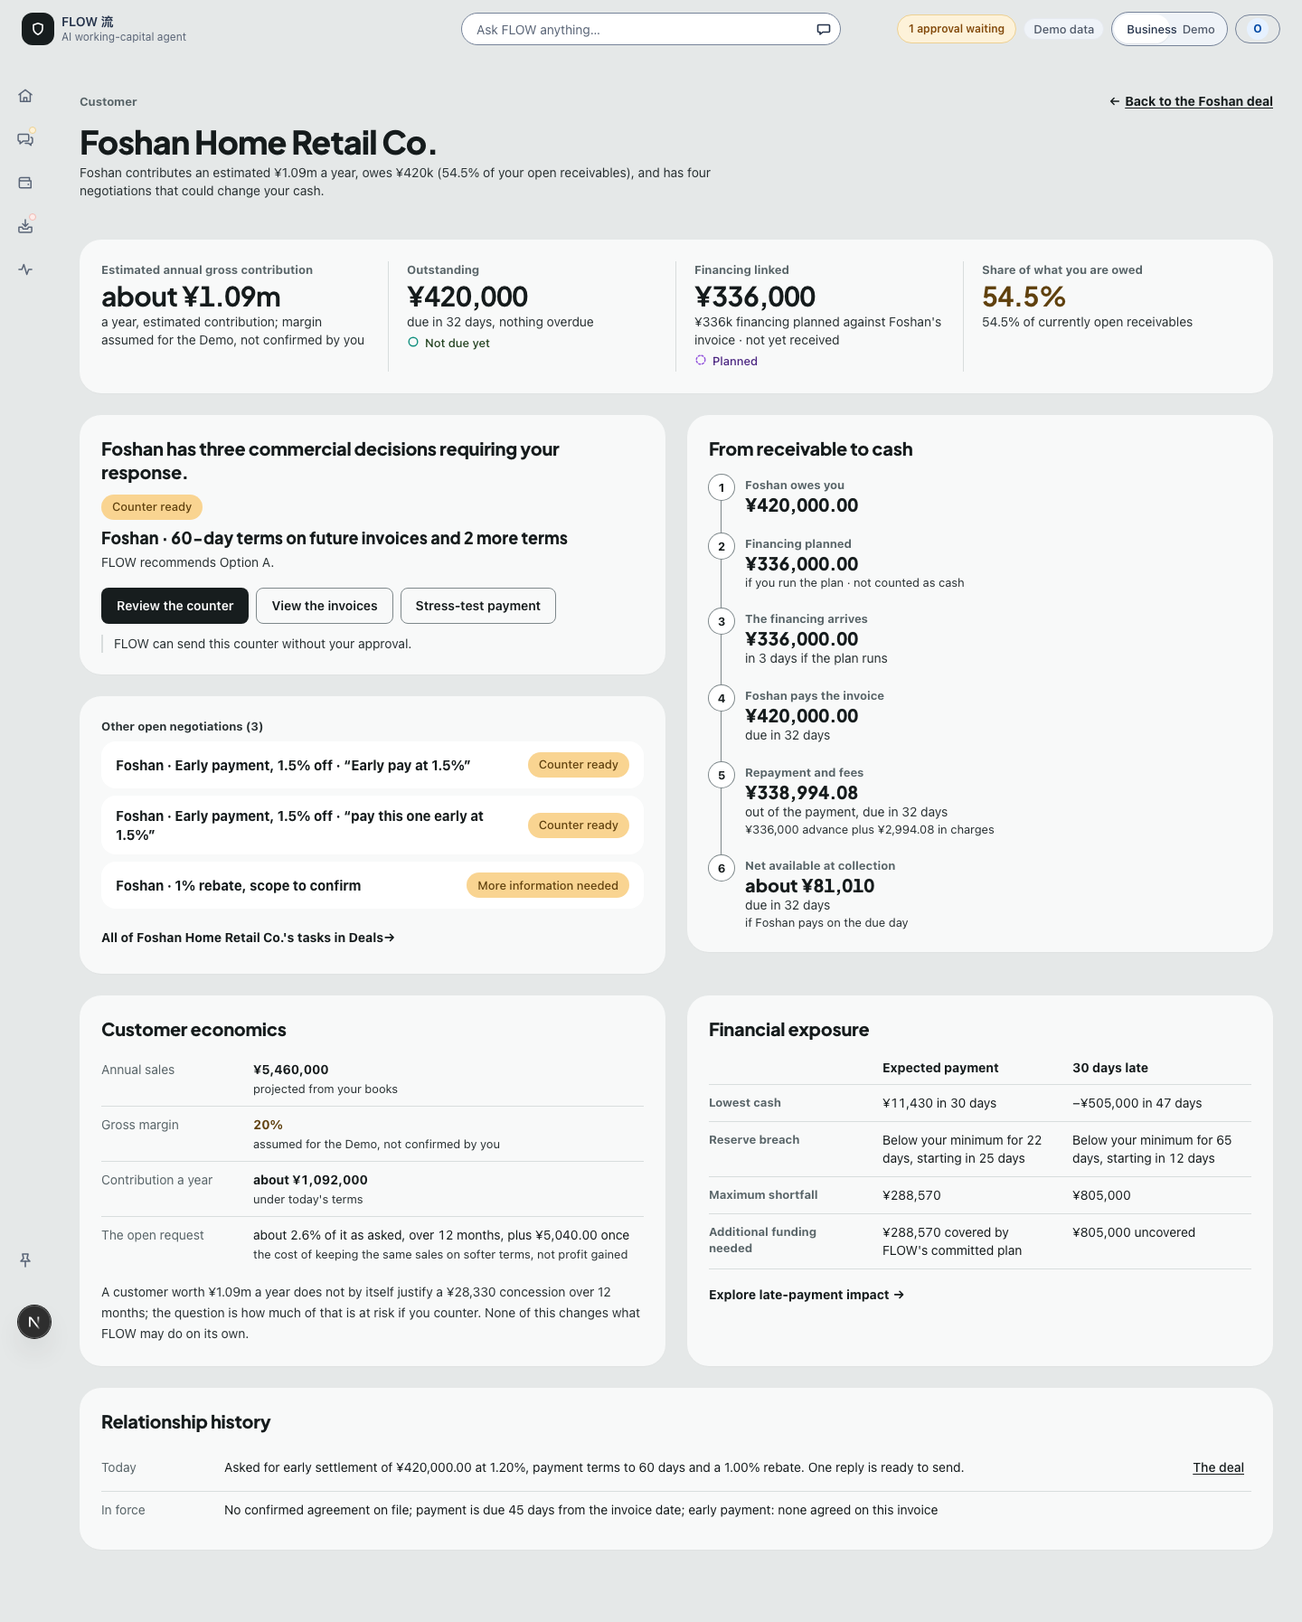
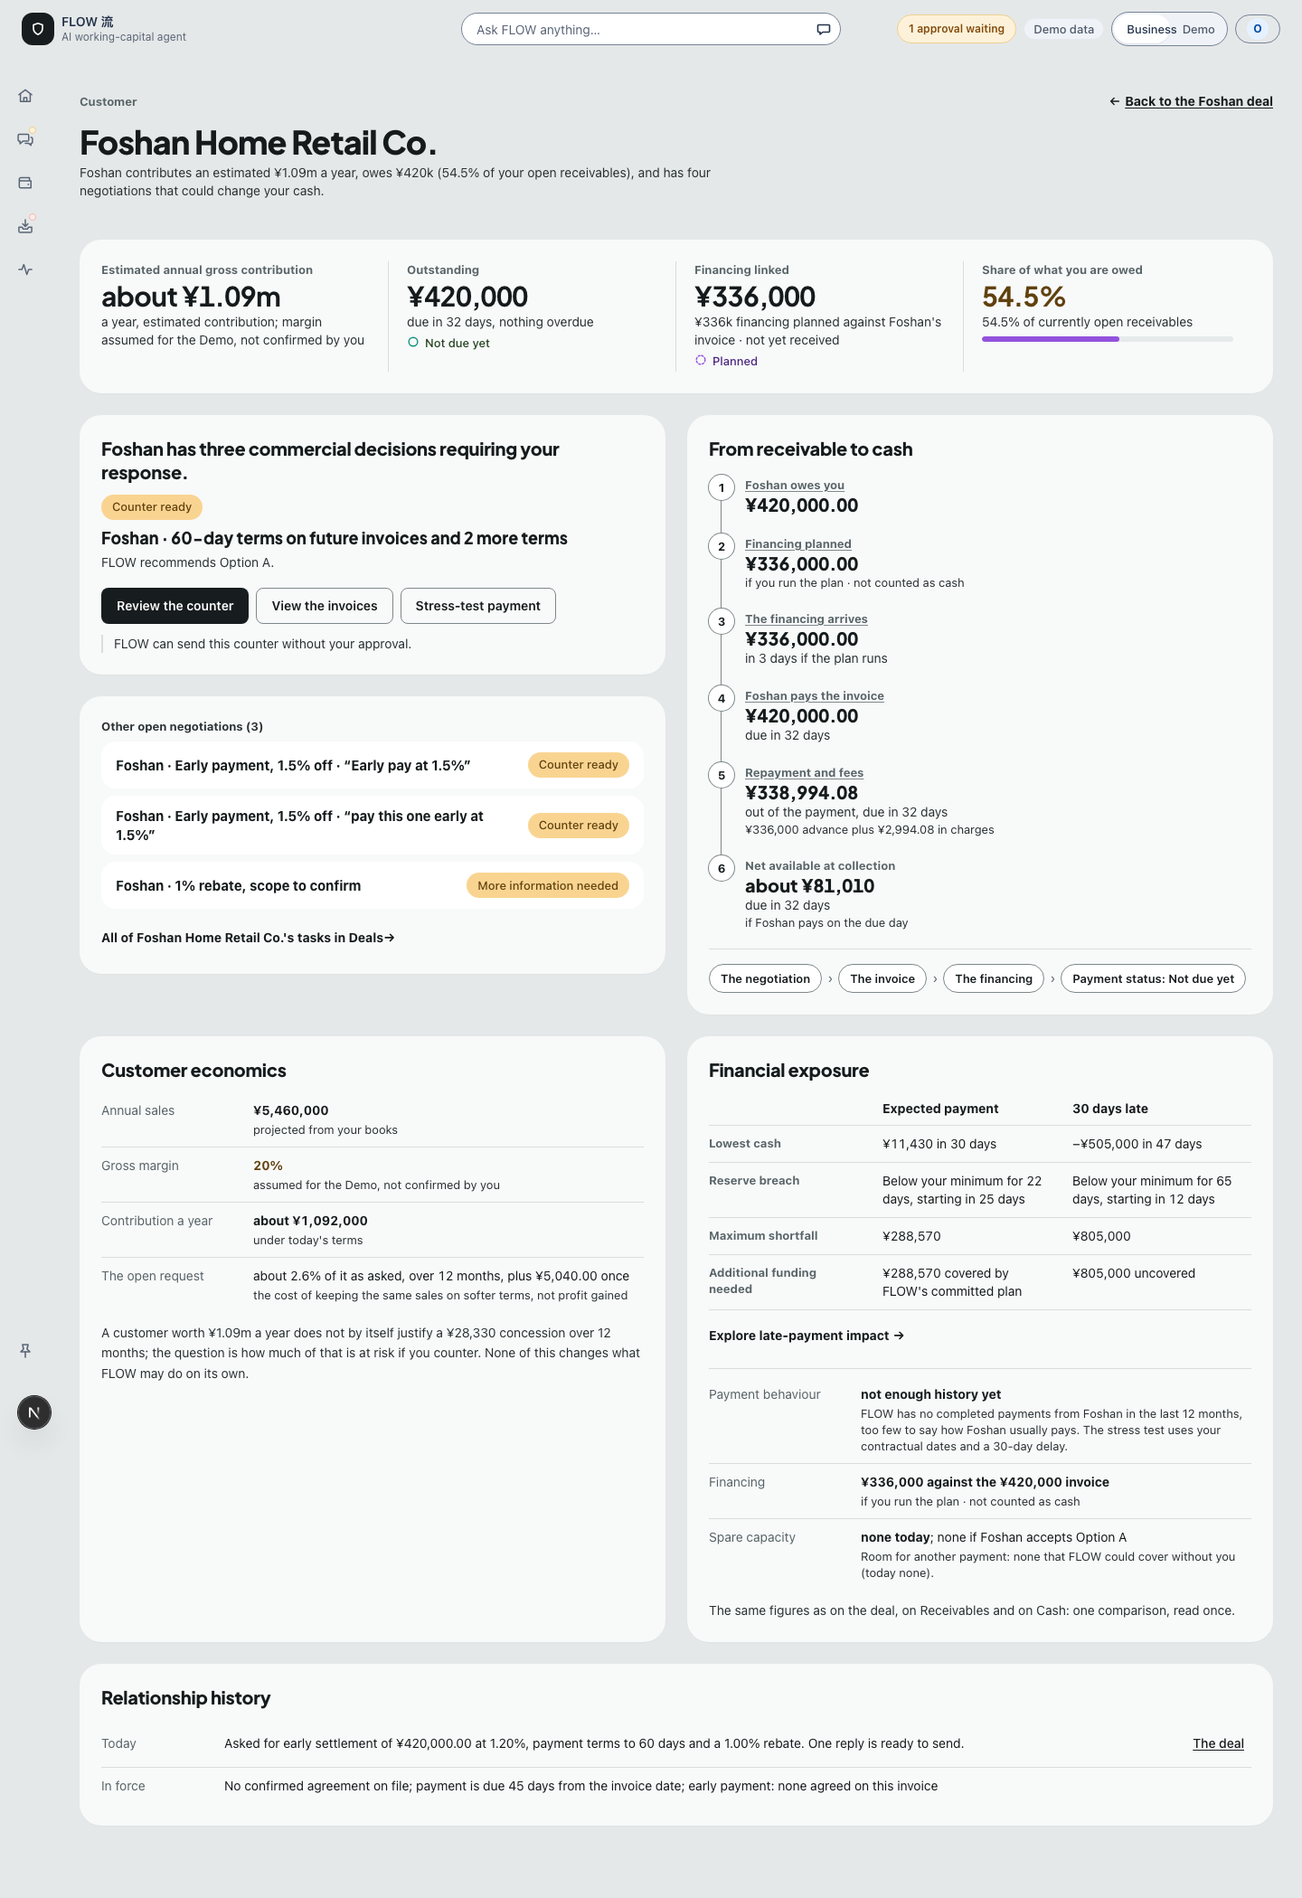
Screenshots regenerated on the merged server; DESIGN.md names the six bound words

diff --git a/apps/web/e2e/live.spec.ts b/apps/web/e2e/live.spec.ts
@@ -534,7 +534,7 @@ test("Deals: Send carries what was shown, and the record's state follows: Agreed
   });
   const deal = await checkedDeal(page);
   const steps = page.getByTestId("deal-state-chip");
-  await expect(steps).toContainText("Counter recommended");
+  await expect(steps).toContainText("Counter ready");
   await openReview(page);
   await expect(page.getByTestId("deal-send")).toHaveText("Send Option A to Foshan");
   await sendCounter(page);

diff --git a/apps/web/DESIGN.md b/apps/web/DESIGN.md
@@ -678,8 +678,8 @@ Where this part differs from the rest of "The seams", this part is right. Home i
 
 ### Deals (`components/deals/flow/`)
 - **The page** is "Deals", the state sentence under it (the server's `queue.deals` counts in words), the company alert as one compact line above the tabs (counted nowhere), and from `xl` two panes: the queue and the selected negotiation; below `xl` a selected negotiation comes first in the DOM and the queue follows. The investigation (Full analysis) opens in a full-width card under both panes (`#deals-investigate`, a portal). Buyer messages not read yet wait in an inbox card under the queue.
-- **The queue lists negotiations only** (`deal-model.ts`): DECISION, BUYER_REPLY and AGREEMENT rows, and the promised payments under the agreements (the Agreements tab, as the server's count has them). An approval goes to Approvals, a collection to Receivables, a setup task and a settlement to their pages; Home keeps the cross-functional worklist. This amends decision #127. Tabs All, Needs you, Waiting and Agreements carry the server's `queue.deals` counts (else the negotiation rows held); the Customers tab is gone (a customer is reached by its name). Each row is a compact card for the 340 px column (`queue-table.tsx`): the subject (the server's `subject_text`, distinct per negotiation, never an id in Business; Demo shows `subject_demo_text`) with the customer's name as its own link, the lifecycle pill (the server's `status_text`, tone by `lifecycle`: counter_ready, owner_review and more_information amber, awaiting_buyer lavender, agreed green, declined and lapsed neutral), and the one consequence under it with the severity dot (CAUTION and CRITICAL only). A control row sorts by Urgency (default: the owner's turn, then severity, then the nearer deadline, stable) or Latest activity (offered only while a row carries `last_activity_day`, else disabled), groups by customer (off by default) and, from 20 negotiations, switches the compact rows to Home's table (the queue then takes the full width above the inbox and the workspace). The funding warning and a customer-scoped view (`?buyer=`, `customer`) are unchanged.
-- **The workspace**, top to bottom: the lifecycle pill (the queue row's word, else the record's), the heading and customer; "What {buyer} asks" (the buyer's own message as a quote); what FLOW recommends (the reply sentence, the reason, who decides and why) and the commit row (the one filled button "Review and send the counter", "Try other terms"); then the analysis. **Commercial terms** (`terms-table.tsx`): one table, columns Buyer requests and FLOW recommends, rows from `paths[*].terms[]` (the server's label, `value_text`, `instead_of_text`) grouped in three named scopes (Existing invoice (early settlement), Future invoices (payment terms), Next quarter (rebate)), a term the path leaves alone says "Unchanged", the changed values (an ask's values; a reply's that say what they stand instead of) bold with a 2 px purple underline, then Authority and Status as `StateWord`. **Timing diagram** (`timing-diagram.tsx`): one small SVG, bars from day 0 for current terms, the buyer's request and FLOW's counter on one scale; lengths are the server's `current_terms_days` and `terms_days` (plotting only), the words beside them the server's (`terms_days_text`, else the payment-term's `value_text`; `current_terms_text`, `terms_delta_text` when it sends them: the current bar and the "+15 days requested by buyer" line are drawn only with those words), no bar for a path with no term in days, no diagram below two bars. **Two cards** (`analysis-cards.tsx`): "What it costs you" and "Your cash", each with its headline figures for Buyer request and the option; one is open in place to its full table (the cost table, `cost-table.tsx`, rows from the server's `cost_rows` or `cost_components` with each total's basis words as the server states them, horizons not normalised; or the four-row cash comparison: Lowest cash, Reserve status, Owner authority, Funding assumption from `funding_assumption_text`, under the payment-timing tabs), the other folded to its headline. The open card is the address (`show=cost|cash`, `none` both folded), Escape folds it (before it dismisses the selection) and the default is the card the recommendation reason names (`recommended_reason_kind`: cash and authority open cash, cost or absent opens cost). **Full analysis** (`deals.full`, `investigate=1`, the old compare and chart toggles in one quiet button under the cards) opens the investigation: "Why FLOW recommends this" (the server's `recommended_reason_text`, each path's `authority_reason_text`, the assumption sentences, and the rule in the dictionary's words: it recommends the first reply it may send within the mandate, it does not rank replies by cost), every response in one table with the stress rows, the deal's cash chart and the envelope's packages. `compare=1` and `chart=1` still open their parts from an address.
+- **The queue lists negotiations only** (`deal-model.ts`): DECISION, BUYER_REPLY and AGREEMENT rows, and the promised payments under the agreements (the Agreements tab, as the server's count has them). An approval goes to Approvals, a collection to Receivables, a setup task and a settlement to their pages; Home keeps the cross-functional worklist. This amends decision #127. Tabs All, Needs you, Waiting and Agreements carry the server's `queue.deals` counts (else the negotiation rows held); the Customers tab is gone (a customer is reached by its name). Each row is a compact card for the 340 px column (`queue-table.tsx`): the subject (the server's `subject_text`, distinct per negotiation, never an id in Business; Demo shows `subject_demo_text`) with the customer's name as its own link, the lifecycle pill (the server's `status_text`, tone by `lifecycle`: counter_ready, owner_review and more_information amber, awaiting_buyer lavender, agreed green, declined and lapsed neutral), and the one consequence under it with the severity dot (CAUTION and CRITICAL only). A control row sorts by Urgency (default: the owner's turn, then severity, then the nearer deadline, stable) or Latest activity (offered only while a row carries `last_activity_day`, else disabled; each row then says `last_activity_text`), groups by customer (off by default) and, from 20 negotiations, switches the compact rows to Home's table (the queue then takes the full width above the inbox and the workspace). The funding warning and a customer-scoped view (`?buyer=`, `customer`) are unchanged.
+- **The workspace**, top to bottom: the lifecycle pill (the queue row's word, else the record's), the heading and customer; "What {buyer} asks" (the buyer's own message as a quote); what FLOW recommends (the reply sentence, the reason, who decides and why) and the commit row (the one filled button "Review and send the counter", "Try other terms"); then the analysis. **Commercial terms** (`terms-table.tsx`): one table, columns Buyer requests and FLOW recommends, rows from `paths[*].terms[]` (the server's label, `value_text`, `instead_of_text`) grouped in three named scopes (Existing invoice (early settlement), Future invoices (payment terms), Next quarter (rebate)), a term the path leaves alone says "Unchanged", the changed values (an ask's values; a reply's that say what they stand instead of) bold with a 2 px purple underline, then Authority and Status as `StateWord`. **Timing diagram** (`timing-diagram.tsx`): one small SVG, bars from day 0 for current terms, the buyer's request and FLOW's counter on one scale; lengths are the server's `current_terms_days` and `terms_days` (plotting only), the words beside them the server's (`terms_days_text`, else the payment-term's `value_text`; `current_terms_text`, `terms_delta_text` when it sends them: the current bar's word and the "+15 days requested by buyer" line are the server's `current_terms_text` and `terms_delta_text`, drawn only when it sends them), no bar for a path with no term in days, no diagram below two bars. **Two cards** (`analysis-cards.tsx`): "What it costs you" and "Your cash", each with its headline figures for Buyer request and the option; one is open in place to its full table (the cost table, `cost-table.tsx`, rows from the server's `cost_rows` or `cost_components` with each total's basis words as the server states them, horizons not normalised; or the four-row cash comparison: Lowest cash, Reserve status, Owner authority, Funding assumption from `funding_assumption_text`, under the payment-timing tabs), the other folded to its headline. The open card is the address (`show=cost|cash`, `none` both folded), Escape folds it (before it dismisses the selection) and the default is the card the recommendation reason names (`recommended_reason_kind`: cash and authority open cash, cost or absent opens cost). **Full analysis** (`deals.full`, `investigate=1`, the old compare and chart toggles in one quiet button under the cards) opens the investigation: "Why FLOW recommends this" (the server's `recommended_reason_text`, each path's `authority_reason_text`, the assumption sentences, and the rule in the dictionary's words: it recommends the first reply it may send within the mandate, it does not rank replies by cost), every response in one table with the stress rows, the deal's cash chart and the envelope's packages. `compare=1` and `chart=1` still open their parts from an address.
 - **The send review** (`send-block.tsx`) is three statements above one button: What you are authorizing (`authorizes_text`), What happens immediately (`executes_now_text`), What does not happen yet (`remaining_text`), then the terms and the cost of this very reply (the same tables, one column), then "Send {option} to {buyer}"; the rest of the receipt (who else must agree, the figures, the assumptions, the authority) is one fold after the button with the record link as the audit evidence. The simulated buyer's lean (Open to a counter / Holds firm) is the Demo's control: Business sends with the cooperative buyer and says the reply is simulated in this environment. Demo mode shows the review too (it used to leave it to /verdict).
 - **Three levels** (`decision-pane.tsx`): Decide (the ask, what we recommend, the commit area), Consequence (terms, timing, the two cards), Investigate on request (Full analysis). A decision shown for the selection is hydrated from the server for the address alone.
 - **The commitment receipt** (`components/ui/commitment-receipt.tsx`, ticket #128): the server's `receipt` (the send review's is `workspace.priced_response.receipt` of the evaluation the picture was drawn from, which the review reads on the owner's own press when this tab has not; an approval's is `receipt` on its `/approvals/queue` row; an agreement's is `agreement.receipt` on its decision record), eleven lines in order, said as three statements, a fold and a button on Deals' send review (see Round two) and as the summary on Approvals (authorizes, runs now, who else must agree, in hand or later, gross, fees or concession, net, when, assumes, under whose authority, still open), a null line omitted, never invented; a figure in the display face with its basis words after a line break at 13 px. It always comes before the commit control in the DOM. Send keeps one confirmation (the receipt is the review, then one button that names the action: "Send Option A to Foshan"); Approve has no second step. A comparison never binds the commit. The send review of ANY reply reads that reply's own entry of `workspace.priced_responses` (`counter_id` is the path's key; `lib/receipt.ts`); nothing is composed from the path's words, and a reply the server did not price shows "FLOW has not priced this reply." with no Send and no buyer-profile choice.
@@ -690,10 +690,10 @@ Where this part differs from the rest of "The seams", this part is right. Home i
 - **Counts**: `/worklist.counts` is the queue's own (Waiting leaves out the promises, which are counted under Agreements); Home's Waiting tab leaves the promise rows out so its number is its rows, and the promises are in Deals' Agreements tab.
 
 ### Customer (`components/customer/`)
-Relationship intelligence. The sentence first (`relationship_text`, the page's subtitle), then the four metrics with the server's exact words (the share figure with a small proportion bar when the server sends `proportion`; the first is the estimated annual gross contribution with its provenance beside it, never "relationship value"). Below them two columns from `lg` (the DOM order is the reading order; on a phone the action block and the flow come before the metrics, which are not interactive): the **primary action block** (`overview.tsx` `ActionBlock`: the server's sentence `primary_decision.text` as the region's name, then the SELECTED negotiation's own subject, lifecycle pill and recommendation (`recommends_text`), never the highest-priority one in its place; the one filled "Review decision" button, outlined when the negotiation is the buyer's or closed; then "Other open negotiations (n)" from `open_negotiations`, a compact list of subjects and pills, and "Other open tasks (n)" for an approval or a collection) and the **receivable-to-cash flow** (`receivable-flow.tsx`: the customer's largest open invoice as a vertical list of the server's `receivable_flow` steps, each its label, `amount_display`, `when_text` and `note`; without financing it is two steps; the row of linked chips under it is drawn only when the server sends `links`). Economics and the **exposure as a comparison** (`exposure-table.tsx`: a column per timing, Expected payment and 30 days late, a row per measure, every cell the server's sentence, then "Explore late-payment impact" and the sentence that the delay is an assumption) side by side, then the history. Every word is the server's; `lib/customer-r2.ts` only names the same fields one way. The inputs sheet link exists only while the server names it (`edit_href`, economics on).
+Relationship intelligence. The sentence first (`relationship_text`, the page's subtitle), then the four metrics with the server's exact words (the share figure with a small proportion bar when the server sends `proportion`; the first is the estimated annual gross contribution with its provenance beside it, never "relationship value"). Below them two columns from `lg` (the DOM order is the reading order; on a phone the action block and the flow come before the metrics, which are not interactive): the **primary action block** (`overview.tsx` `ActionBlock`: the server's sentence `primary_decision.text` as the region's name, then the SELECTED negotiation's own subject, lifecycle pill and recommendation (`recommends_text`), never the highest-priority one in its place; the one filled "Review decision" button, outlined when the negotiation is the buyer's or closed; then "Other open negotiations (n)" from `open_negotiations`, a compact list of subjects and pills, and "Other open tasks (n)" for an approval or a collection) and the **receivable-to-cash flow** (`receivable-flow.tsx`: the customer's largest open invoice as a vertical list of the server's `receivable_flow` steps, each its label, `amount_display`, `when_text` and `note`; without financing it is two steps; each step is a link to where it is done when the server sends its `href`, and the row of chips under it is the overview's `links`, drawn only when the server sends them; the share figure's bar is its `proportion`). Economics and the **exposure as a comparison** (`exposure-table.tsx`: a column per timing, Expected payment and 30 days late, a row per measure, every cell the server's sentence, then "Explore late-payment impact" and the sentence that the delay is an assumption) side by side, then the history. Every word is the server's; `lib/customer-r2.ts` only names the same fields one way. The inputs sheet link exists only while the server names it (`edit_href`, economics on).
 
 ### Approvals (`app/approvals/page.tsx`, `components/approval-card.tsx`, `components/approval-lifecycle.tsx`)
-Exact authorization. The page is in `.flow-f`. A waiting approval's card, top to bottom: the question, the server's first sentence (`authorize_text`: "Approval sends an application to the lender. It does not mean the loan is approved or that funds have arrived."), the terms-state line when no quote exists (`terms_state_text`), "Why it needs you", the lifecycle (`lifecycle[]`: You authorize, Lender reviews, Funding decision, each done, current or next by the server's word, a check, a ring with a dot or a hollow ring and a spoken word; a stage is never shown done before the server says it is), the compact summary (`summary_rows`: Amount requested, Facility, What happens now, Does money move now, Who decides whether funds are offered, What if you decline; a real quote's terms as `terms_rows`; an older server's facts block stands in), an agreement's terms, then the one button that names the act (`commit_label`: "Authorize the application") and Decline. The cash picture, the decline and after sentences, the quote and the receipt are behind "View application details"; "Authority" and "Audit evidence" are folds of their own (the record link beside them). With one approval waiting it is the focused card; with several, a split (`lg:grid-cols-[340px_minmax(0,850px)]`): the list on the left grouped by kind of act with each row's question, state, amount and tier, the selected approval's card on the right (a link `#approval-<id>` selects it). There is no "approve all". Decided approvals stay unboxed rows under "Already decided".
+Exact authorization. The page is in `.flow-f`. A waiting approval's card, top to bottom: the question, the server's first sentence (`authorize_text`: "Approval sends an application to the lender. It does not mean the loan is approved or that funds have arrived."), the terms-state line when no quote exists (`terms_state_text`), "Why it needs you", the lifecycle (`lifecycle[]`: You authorize, Lender reviews, Funding decision, each done, current or next by the server's word, a check, a ring with a dot or a hollow ring and a spoken word; a stage is never shown done before the server says it is), the compact summary (`summary_rows`: Amount requested, Facility, What happens now, Does money move now, Who decides whether funds are offered, What if you decline; a real quote's terms as `terms_rows`; an older server's facts block stands in), an agreement's terms, then the one button that names the act (`commit_label`: "Authorize the application") and Decline. The cash picture, the decline and after sentences, the quote and the receipt are behind "View application details"; "Authority" and "Audit evidence" are folds of their own (the record link beside them). With one approval waiting it is the focused card; with several, a split (`lg:grid-cols-[340px_minmax(0,850px)]`): the list on the left grouped by kind of act with each row's question, state, amount, tier and deadline (`deadline_text`, when the server has one), the selected approval's card on the right (a link `#approval-<id>` selects it). There is no "approve all". Decided approvals stay unboxed rows under "Already decided".
 
 ### Ask FLOW (`lib/chat-scope.ts`, `lib/chat-scope-model.ts`, ticket #130)
 A persistent scope chip before the composer (Company always; Customer, Invoice, Decision when the address holds them, narrowest first; the owner may widen it for this route; it is gone on a route change, and there is no per-route memory: `useClearScopeOnRouteChange`, mounted with the panel, empties the choice whenever the route's keys change, so Back to a page asks at the address's own scope). The request carries `scope` (the keys that are set) and nothing from an earlier page; Receivables registers its selected invoice with `usePageScope`. The answer says what the server used (`scope_used`), and a different kind than the one chosen is said, not hidden. Customer and Activity have their own suggested questions. In development the console logs each turn's duration (the six-customer question).
